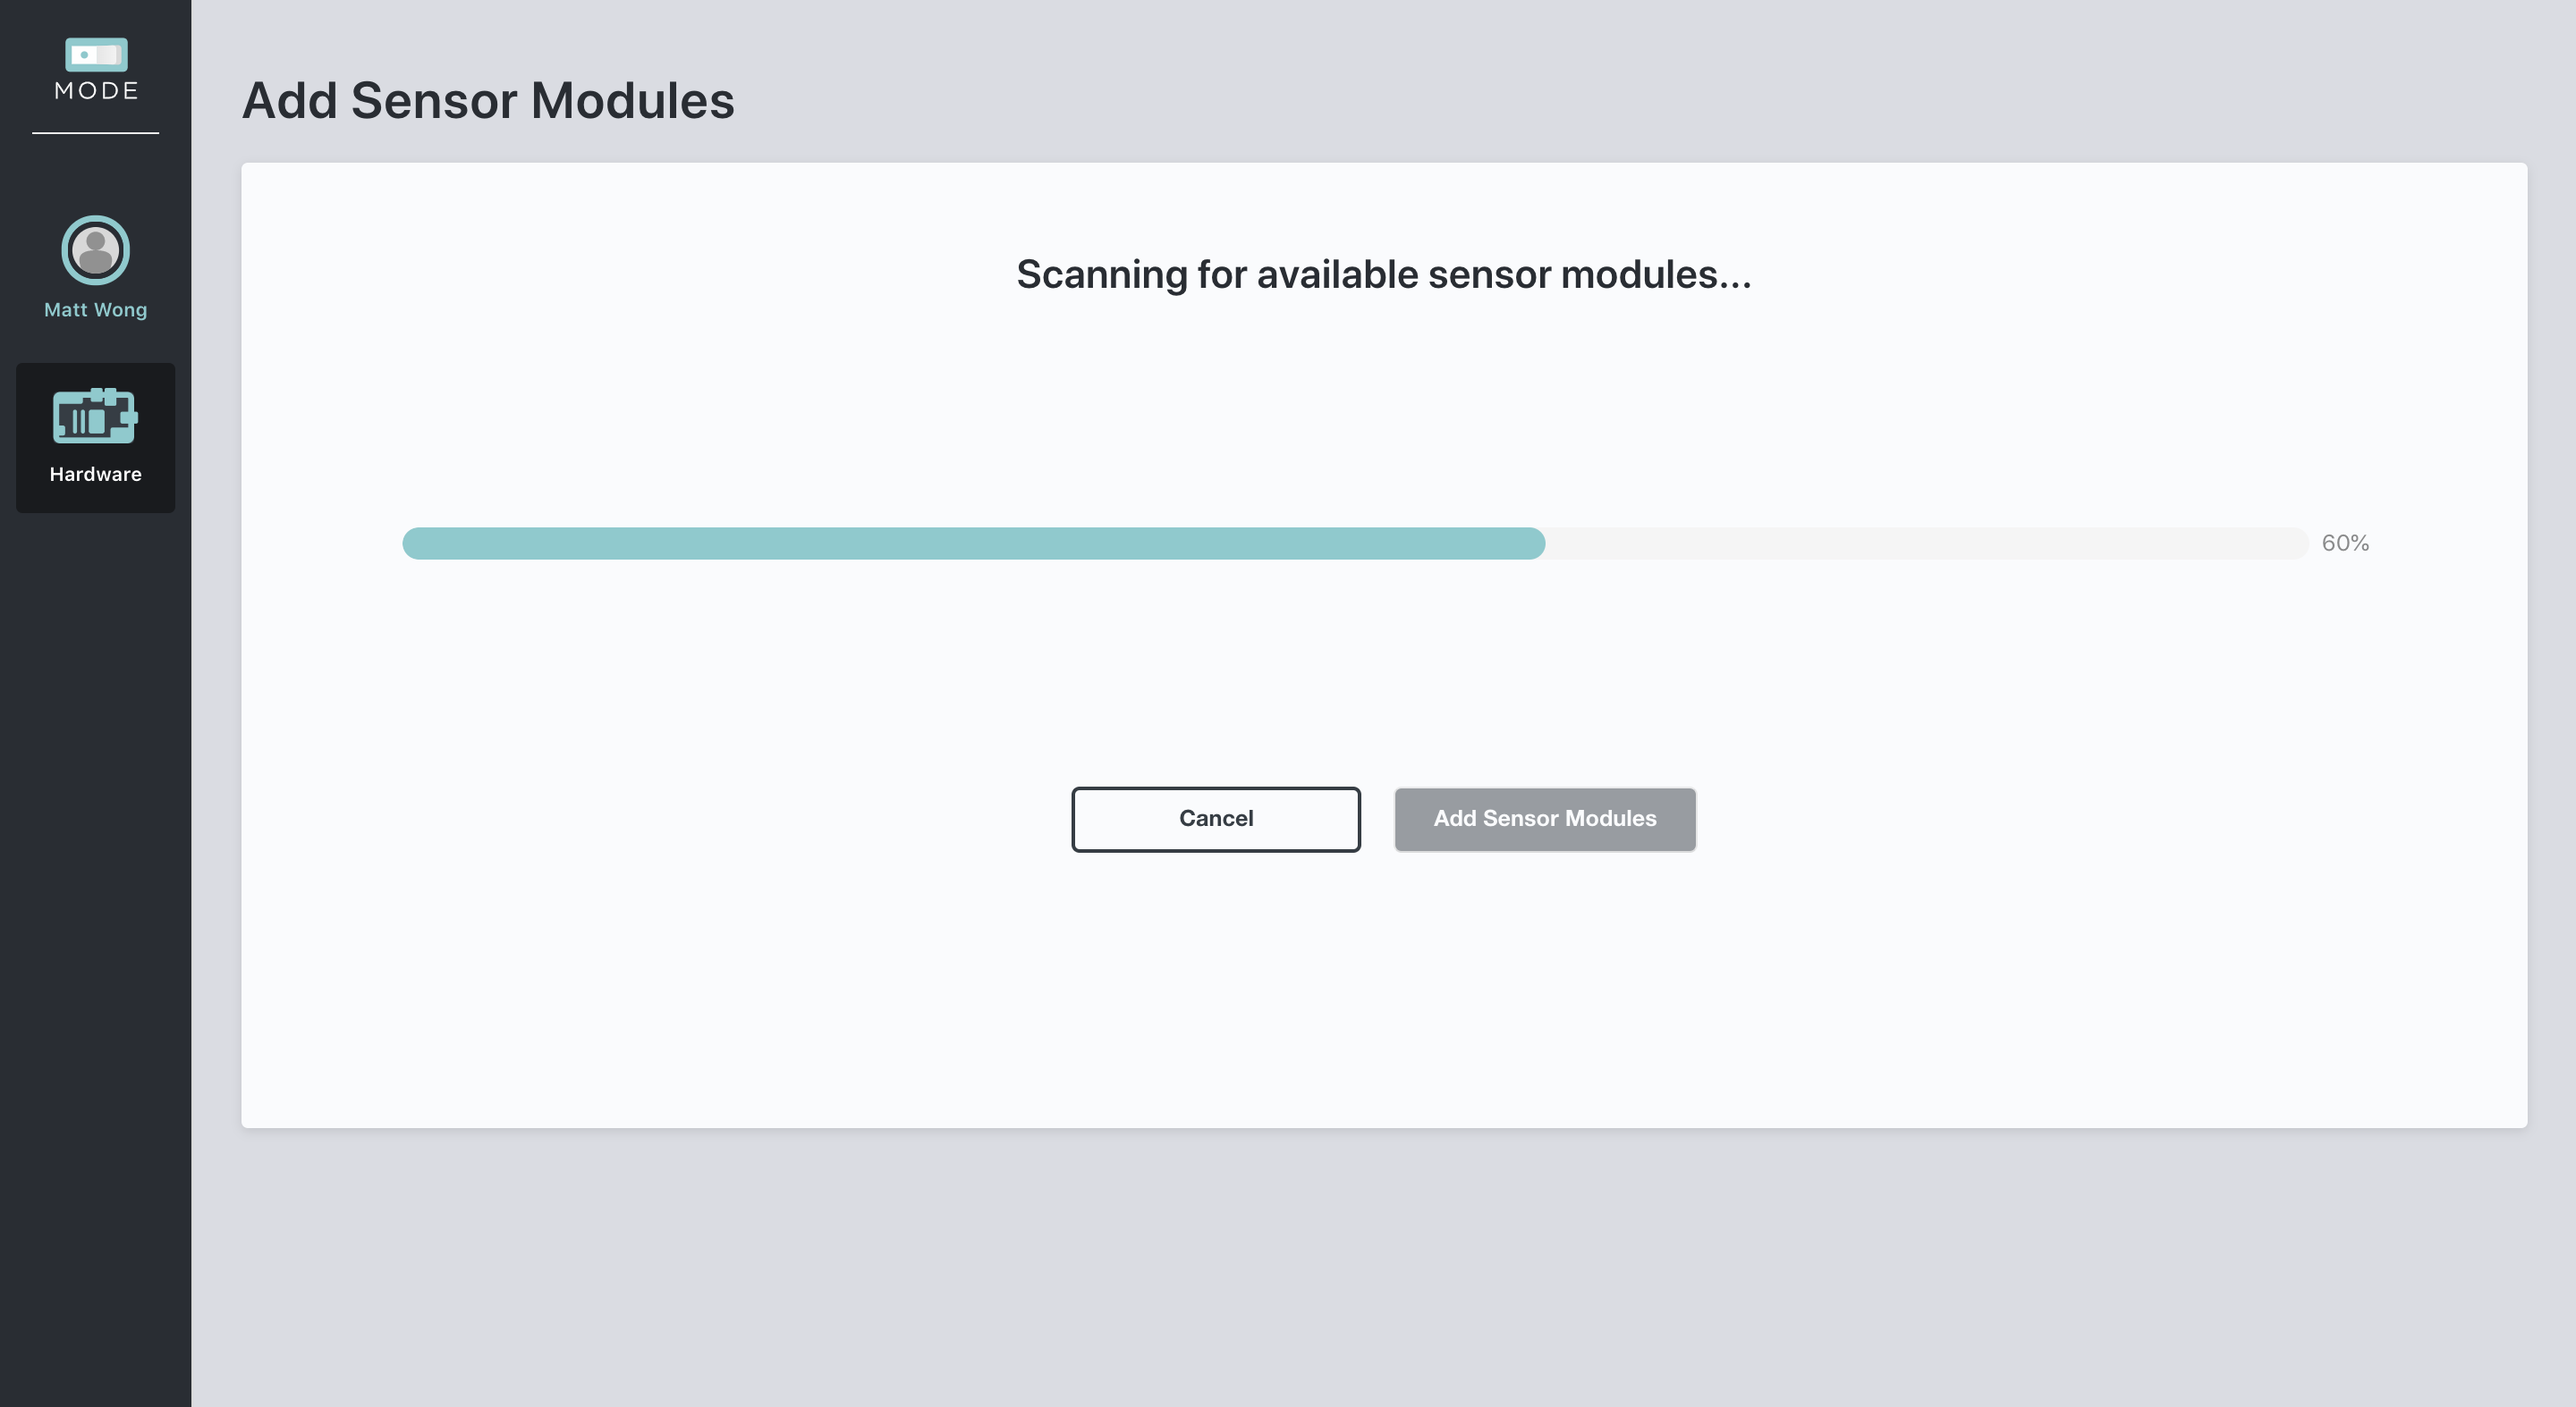
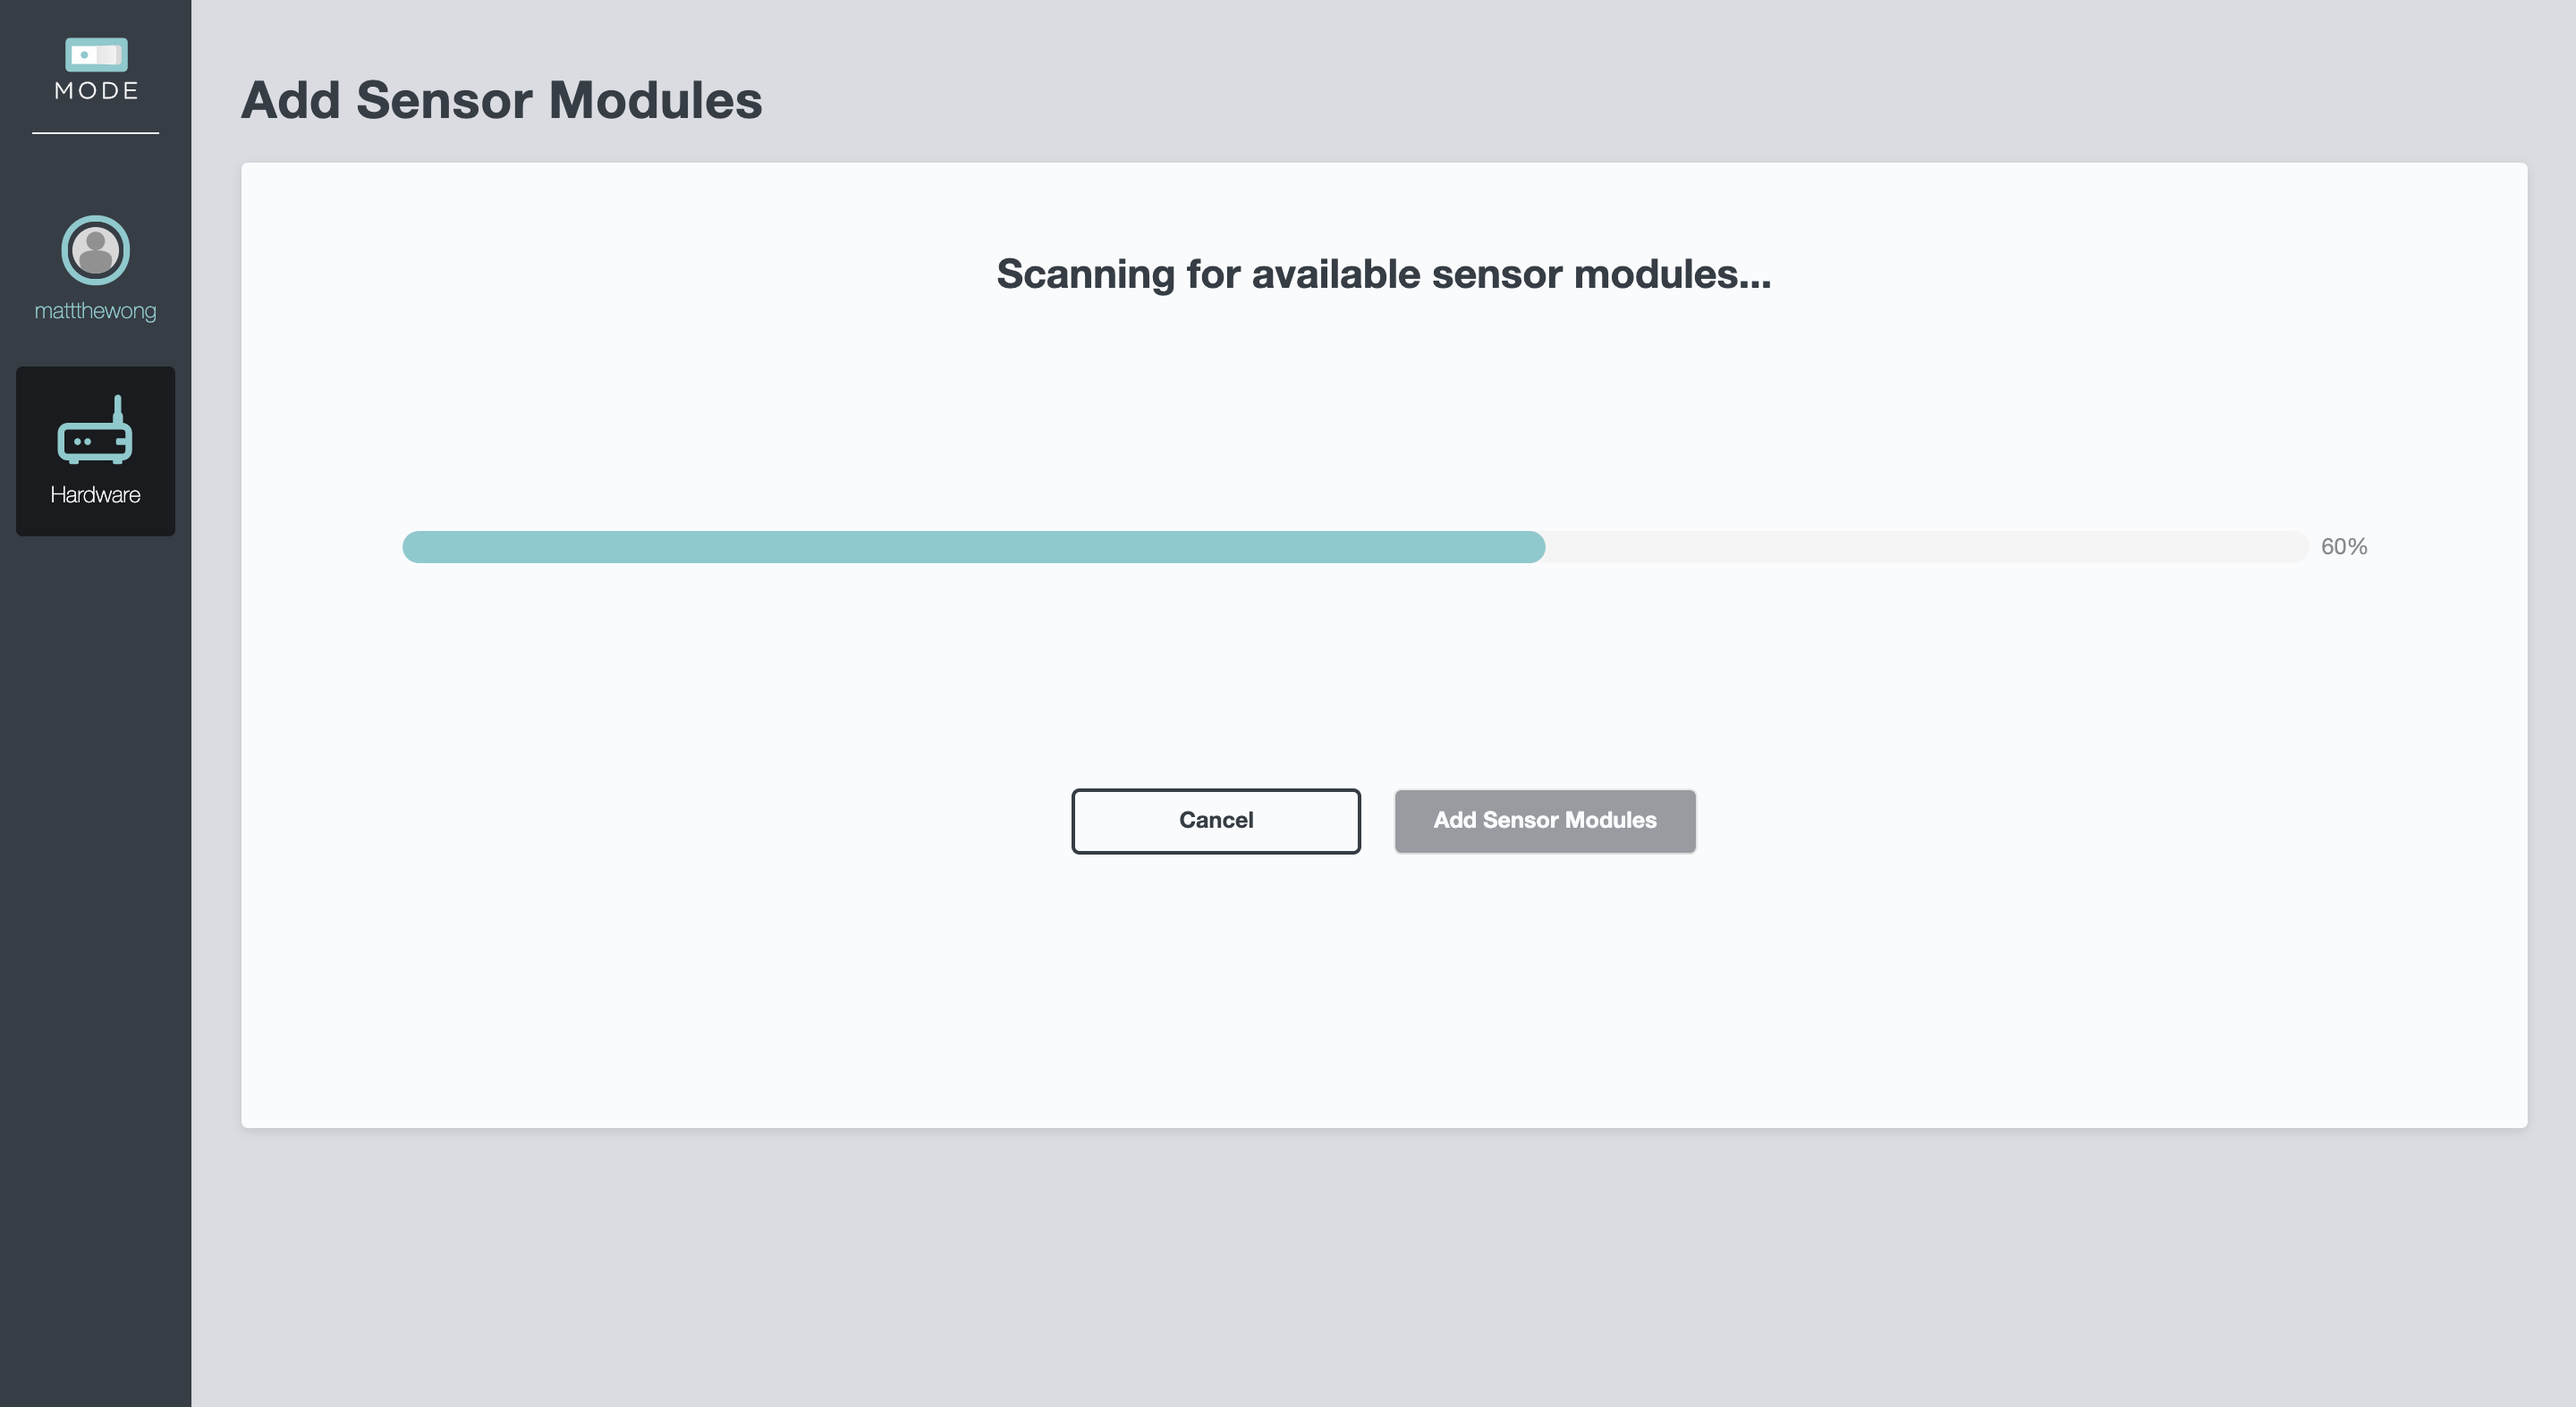
updated images and added baseURL to remove warning

diff --git a/README.md b/README.md
@@ -76,7 +76,11 @@ $ npm install -g node
 
 SCEVAL provides a way for a developer to add gateways to his/her project. In order to provision a device on demand, the developer must first put the device in `Claim Mode`. Running the provided shell script will put the device in claim mode, allowing the developer to add a gateway directly from the app. To do so, navigate to the Hardware page, click `Add Gateway` and enter the claim code found on your device. Once successfully added, the developer will see that a new gateway was added to their project.
 
+<img src="https://github.com/moderepo/sensor-cloud-eval/blob/app/readme/sceval_frontend/src/common_images/screenshots/add_device.png" alt="Size Limit CLI" width="850">
+
 Deleting a gateway disassociates that gateway from the user's home. To delete a gateway and its sensor module associations, select `Delete Device` from the device settings dropdown. A popup will prompt the user to confirm whether this action is desired, and if the user selected `OK`, will remove the gateway and its associations from the project.
+
+<img src="https://github.com/moderepo/sensor-cloud-eval/blob/app/readme/sceval_frontend/src/common_images/screenshots/confirm_delete.png" alt="Size Limit CLI" width="850">
 
 ### Link and Unlink Sensor Modules to and from a Gateway
 
